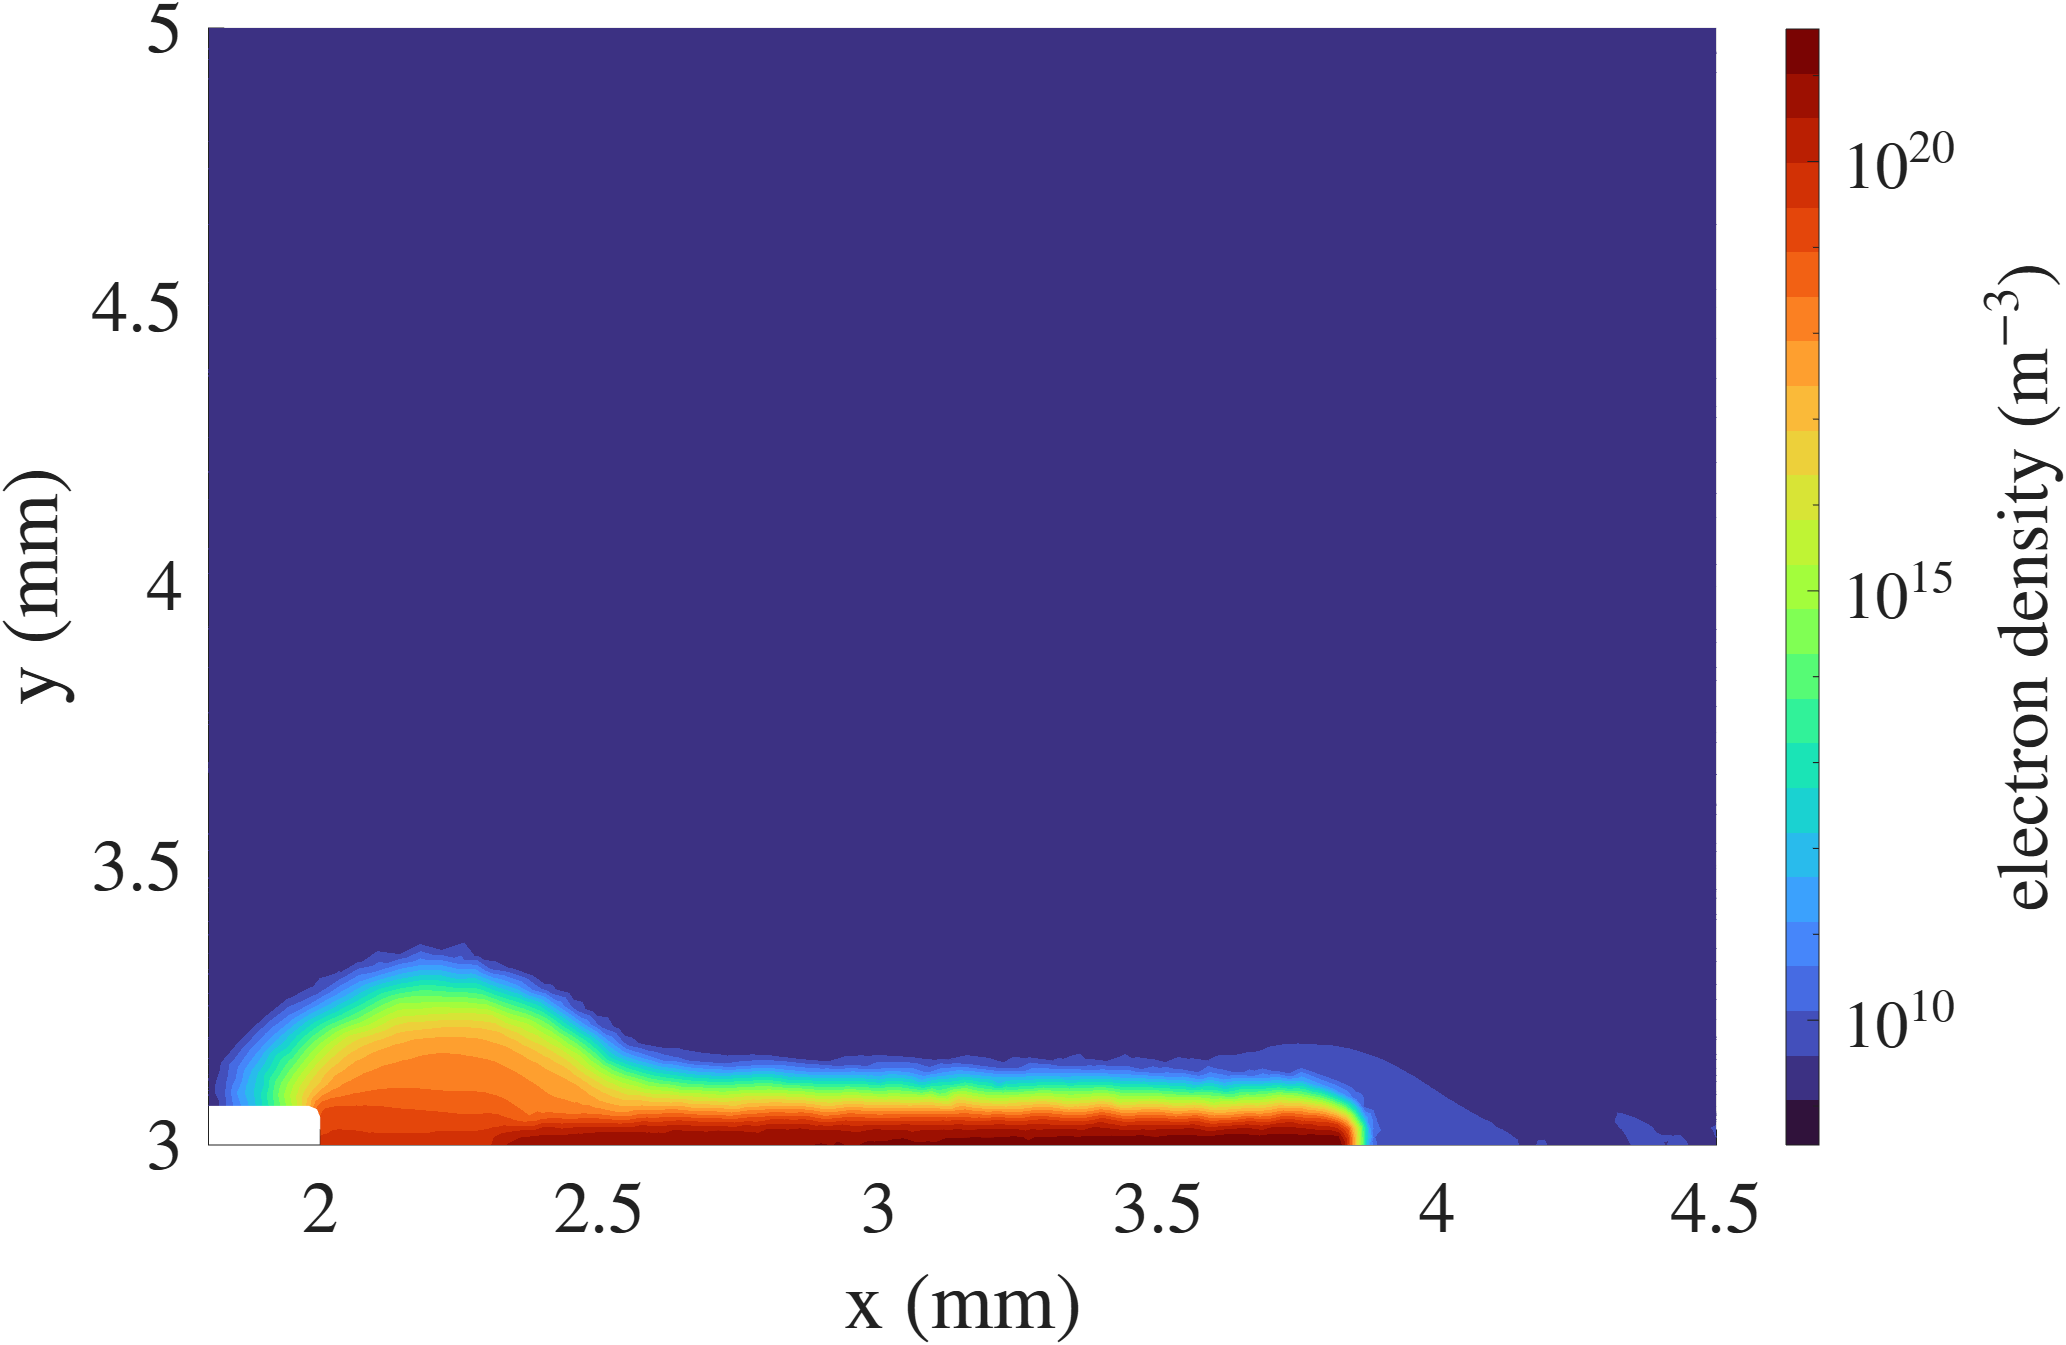
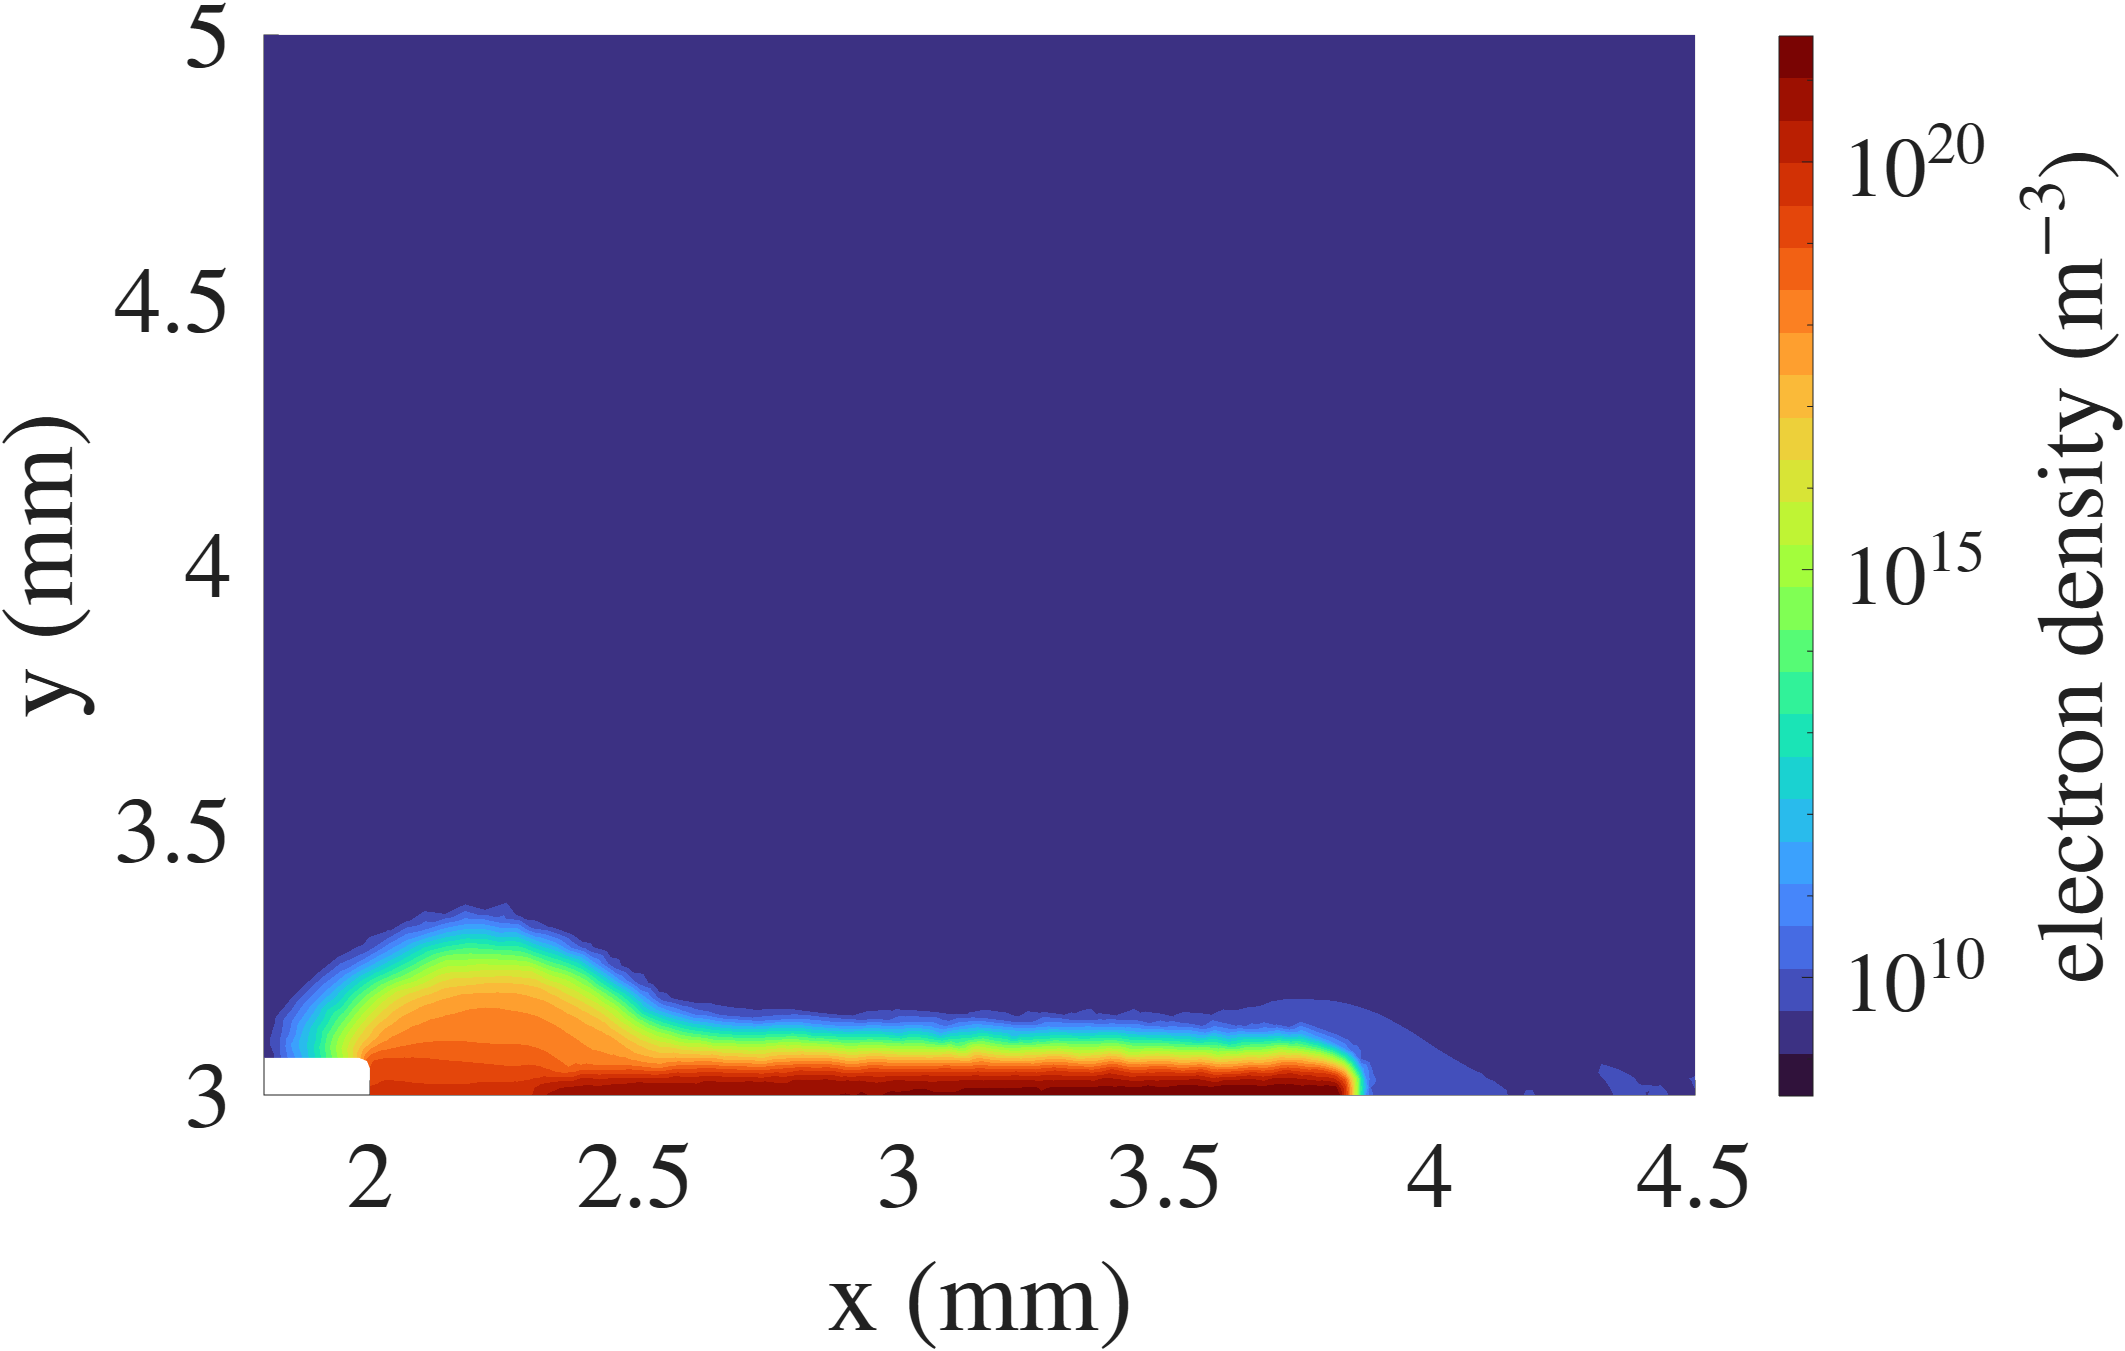
Improved images display in README.md

diff --git a/README.md b/README.md
@@ -1,9 +1,8 @@
 # Merlino2D
 
-| | |
-|-------|-------------|
-| Merlino2D is an open-source plasma simulation code designed to provide a fast and user-friendly platform for modeling a broad range of plasma devices and gas discharges. The code is based on a drift–diffusion fluid framework and can accommodate detailed kinetic reaction schemes, depending on the chosen mesh resolution. Merlino2D employs a fully implicit time-integration scheme with adaptive time stepping, enabling stable and computationally efficient simulations. The code is implemented in MATLAB and supports two-dimensional plasma simulations on unstructured triangular meshes generated using Gmsh. | <img src="images/Merlino_logo.png" width="950"> |
+<img src="images/Merlino_logo.png" width="150">
 
+Merlino2D is an open-source plasma simulation code designed to provide a fast and user-friendly platform for modeling a broad range of plasma devices and gas discharges. The code is based on a drift–diffusion fluid framework and can accommodate detailed kinetic reaction schemes, depending on the chosen mesh resolution. Merlino2D employs a fully implicit time-integration scheme with adaptive time stepping, enabling stable and computationally efficient simulations. The code is implemented in MATLAB and supports two-dimensional plasma simulations on unstructured triangular meshes generated using Gmsh.
 
 ## Installation
 To use Merlino2D you need MATLAB installed on your computer.
@@ -34,24 +33,25 @@ The main folder also contains 8 sub-folders:
 ## Tests
 
 ### 1) Diffusion
-| | |
-|-------|-------------|
-| The **Diffusion_i.m** script corresponds to a simulation where a spatial Gaussian distribution of number density (with standard deviation $\sigma_x = 0.1 \, \mathrm{m}$, $\sigma_y = 0.1 \, \mathrm{m}$) is let free to evolve in time in a square domain. No external field is applied and zero-flux boundary conditions are applied at the boundaries. Running the script **Diffusion_run.m** will run the simulation and plot a 1D comparison of the results obtained with the analytical solution. | <img src="images/Diffusion.png" width="4950"> |
+<img src="images/Diffusion.png" width="600">
+
+The **Diffusion_i.m** script corresponds to a simulation where a spatial Gaussian distribution of number density (with standard deviation $\sigma_x = 0.1 \, \mathrm{m}$, $\sigma_y = 0.1 \, \mathrm{m}$) is let free to evolve in time in a square domain. No external field is applied and zero-flux boundary conditions are applied at the boundaries. Running the script **Diffusion_run.m** will run the simulation and plot a 1D comparison of the results obtained with the analytical solution. 
+
 
 ### 2) Drift
-| | |
-|-------|-------------|
-| The **Drift_i.m** script corresponds to a simulation where a spatial Gaussian distribution of number density is forced to rotate in the domain. To achieve that you need to uncomment 2 lines in the function **DaeFunc2DNoR.m**. Remember to comment them again once you are done with this test. Running the script **Drift_run.m** will run the simulation and plot the results at six different time instants. | <img src="images/Drift.png" width="4950"> |
+<img src="images/Drift.png" width="600">
+
+The **Drift_i.m** script corresponds to a simulation where a spatial Gaussian distribution of number density is forced to rotate in the domain. To achieve that you need to uncomment 2 lines in the function **DaeFunc2DNoR.m**. Remember to comment them again once you are done with this test. Running the script **Drift_run.m** will run the simulation and plot the results at six different time instants.
 
 ### 3) Corona (wire - wire grid geometry)
-| | |
-|-------|-------------|
-| The **CoronaWireWireGrid_i.m** script corresponds to a simulation of a corona discharge in a geometry consisting of a thin wire emitter ($r = 50 \mathrm{\mu m}$) and a grid of 7 wires as collectors ($r = 100 \mathrm{\mu m}$). Due to symmetry, only the top-half part of the domain is meshed. The discharge is in atmospheric pressure air, and the kinetic model from [Parent et al.](https://www.sciencedirect.com/science/article/pii/S0021999113007912?via%3Dihub) is used. A voltage ramp from $7 \mathrm{kV}$ to $20 \mathrm{kV}$ is applied at the emitter while the collectors are grounded. A ballast resistor of $1 \mathrm{k\Omega}$ is considered in the external circuit. The photoionization model from [Bourdon et al.](https://iopscience.iop.org/article/10.1088/0963-0252/16/3/026) is used. This simulation will use LoKI-B to compute the mobility and diffusion coefficient of electrons, and also the electron temperature as a function of the reduced electric field. Run the script **CoronaWireWireGrid_run.m** to run this simulation. | <img src="images/CoronaWireWireGrid.png" width="14950"> |
+<img src="images/CoronaWireWireGrid.png" width="600">
+
+The **CoronaWireWireGrid_i.m** script corresponds to a simulation of a corona discharge in a geometry consisting of a thin wire emitter ($r = 50 \mathrm{\mu m}$) and a grid of 7 wires as collectors ($r = 100 \mathrm{\mu m}$). Due to symmetry, only the top-half part of the domain is meshed. The discharge is in atmospheric pressure air, and the kinetic model from [Parent et al.](https://www.sciencedirect.com/science/article/pii/S0021999113007912?via%3Dihub) is used. A voltage ramp from $7 \mathrm{kV}$ to $20 \mathrm{kV}$ is applied at the emitter while the collectors are grounded. A ballast resistor of $1 \mathrm{k\Omega}$ is considered in the external circuit. The photoionization model from [Bourdon et al.](https://iopscience.iop.org/article/10.1088/0963-0252/16/3/026) is used. This simulation will use LoKI-B to compute the mobility and diffusion coefficient of electrons, and also the electron temperature as a function of the reduced electric field. Run the script **CoronaWireWireGrid_run.m** to run this simulation.
 
 ### 4) DBD 
-| | |
-|-------|-------------|
-| The **DBD_i.m** script corresponds to a simulation of a surface dielectric barrier discharge in air at atmospheric pressure in a geometry with an HV electrode of length $2 \mathrm{mm}$ and thickness $70 \mathrm{\mu m}$ on top of a dielectric layer ($\varepsilon_r = 3.2$) with thickness of $3 \mathrm{mm}$. The grounded electrode on the bottom part of the dielectric layer has a length of $5 \mathrm{mm}$. A sinusoidal voltage with amplitude $15 \mathrm{kV}$ and frequency $100 \mathrm{kHz}$ is applied at the HV electrode. The chemical model for air from [Morrow et al.](https://iopscience.iop.org/article/10.1088/0022-3727/30/4/017) is used. A ballast resistor of $100 \mathrm{\Omega}$ is considered in the external circuit. The secondary electron emission coefficient at the HV electrode is set to $0.05$, while it is $0.01$ at the dielectric interface. Run the script **DBD_run.m** to run this simulation. | <img src="images/DBD.png" width="7550"> |
+<img src="images/DBD.png" width="600">
+
+The **DBD_i.m** script corresponds to a simulation of a surface dielectric barrier discharge in air at atmospheric pressure in a geometry with an HV electrode of length $2 \mathrm{mm}$ and thickness $70 \mathrm{\mu m}$ on top of a dielectric layer ($\varepsilon_r = 3.2$) with thickness of $3 \mathrm{mm}$. The grounded electrode on the bottom part of the dielectric layer has a length of $5 \mathrm{mm}$. A sinusoidal voltage with amplitude $15 \mathrm{kV}$ and frequency $100 \mathrm{kHz}$ is applied at the HV electrode. The chemical model for air from [Morrow et al.](https://iopscience.iop.org/article/10.1088/0022-3727/30/4/017) is used. A ballast resistor of $100 \mathrm{\Omega}$ is considered in the external circuit. The secondary electron emission coefficient at the HV electrode is set to $0.05$, while it is $0.01$ at the dielectric interface. Run the script **DBD_run.m** to run this simulation.
 
 
 ## Workflow